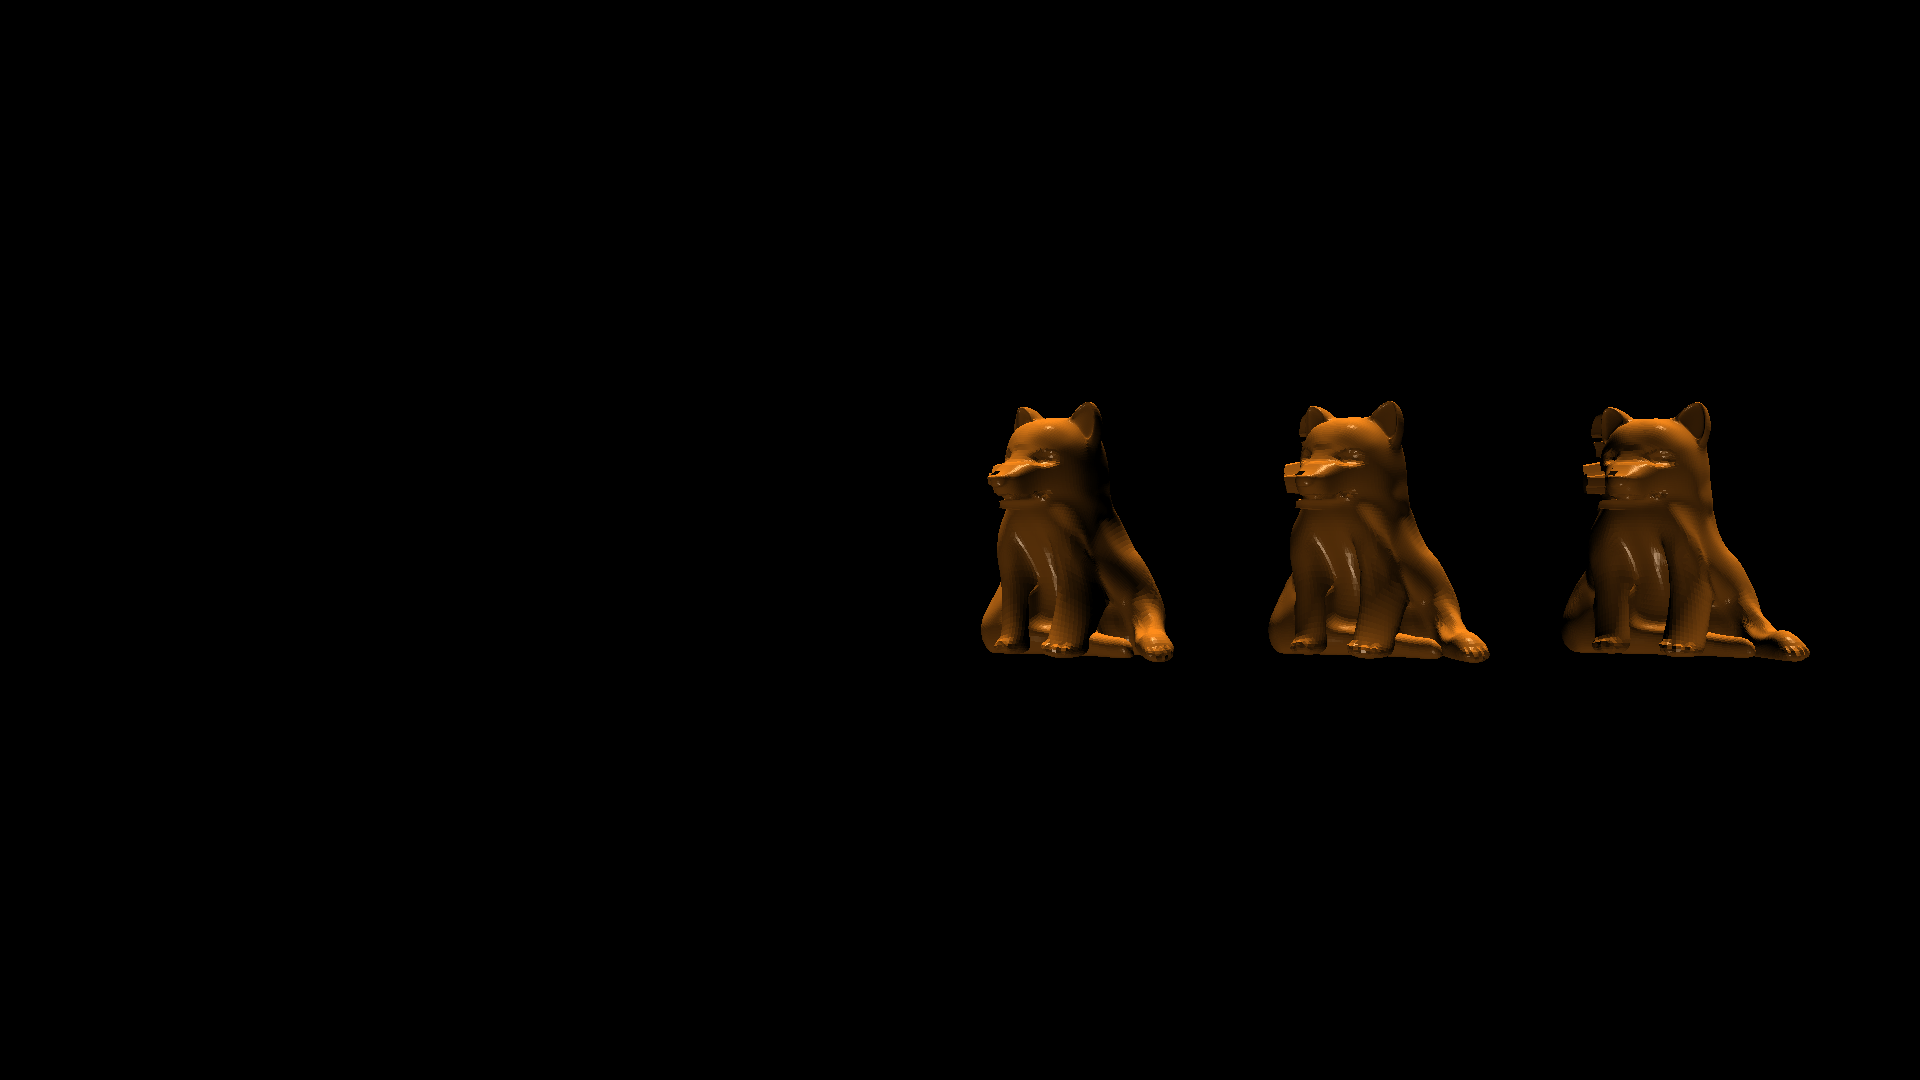
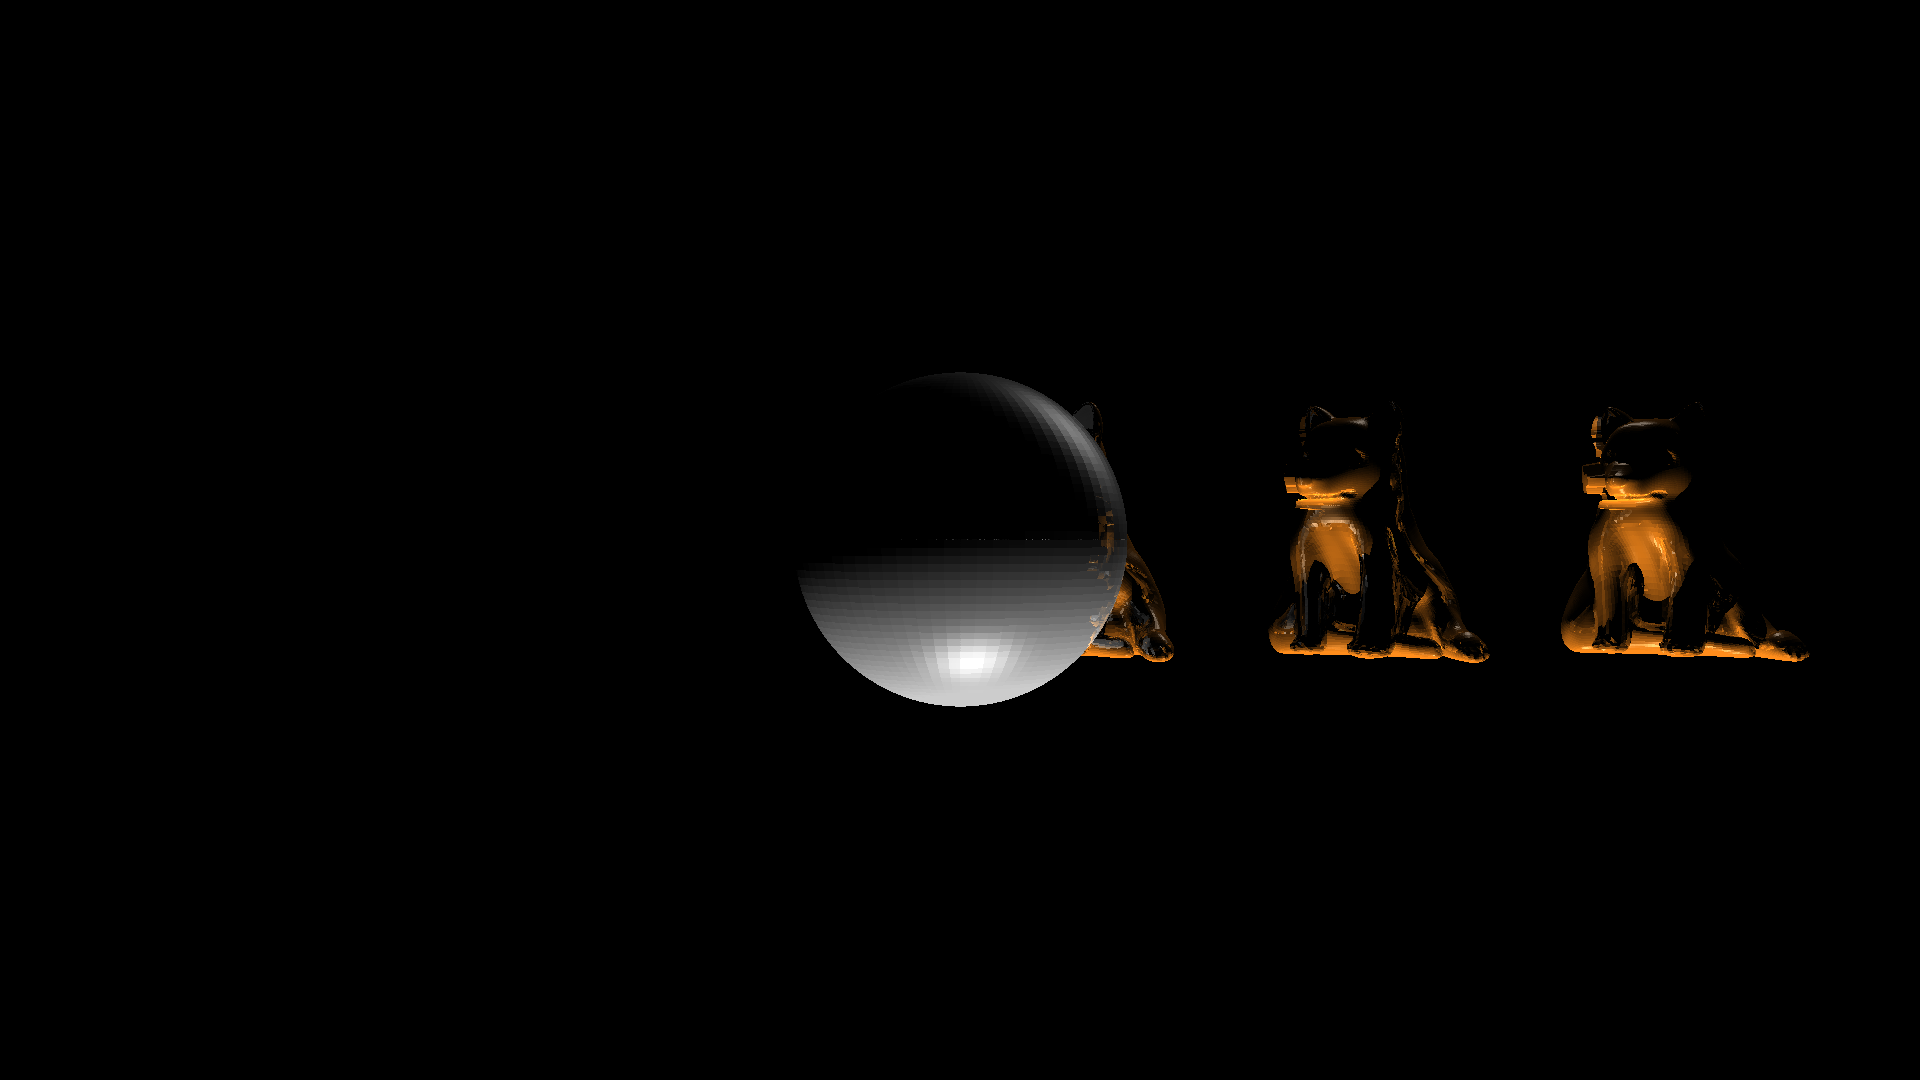
reflection

Changed region(s): [[0.4062, 0.3361, 0.625, 0.6722], [0.8125, 0.3667, 0.9375, 0.6111], [0.6562, 0.3667, 0.7812, 0.6111]]

diff --git a/PhotonMapping/Scene.cpp b/PhotonMapping/Scene.cpp
@@ -8,7 +8,6 @@
 #ifdef _DEBUG
 #include <iostream>
 #endif
-#include "PointLight.h"
 
 
 
@@ -95,7 +94,7 @@ void Scene::setCamera(std::shared_ptr<Camera> camera)
 }
 
 
-void Scene::addModel(std::string objRoute, glm::vec3 position)
+void Scene::addModel(std::string objRoute, glm::vec3 position, float reflection, float refraction)
 {
     std::shared_ptr<Model> model = std::make_shared<Model>(objRoute.c_str(), device, position);
 
@@ -139,39 +138,9 @@ std::vector<glm::vec3> Scene::renderScene()
     std::vector<Ray> camRays = camera->generateRaysCamera();
     for (Ray camRay : camRays)
     {
-        ThrowRay(camRay);
 
-        glm::vec3 HitCoordinates;
+        buffer.push_back(colorToRgb(trace(camRay, Settings::maxDepth, 1.0f)));
 
-        if (camRay.GetHit(HitCoordinates))
-        {
-            RTCRayHit* hit = camRay.GetRayHit();
-            auto mesh = getMeshWithGeometryID(hit->hit.geomID);
-            auto material = mesh->getMaterial();
-
-            glm::vec3 normal = camRay.getNormal();
-			glm::vec3 color = shade(camRay, material, 3);
-			
-			/*            
-			float lightInt = 0;
-            for (auto light : Lights)
-            {   
-                std::shared_ptr<PointLight> pointLight = std::dynamic_pointer_cast<PointLight>(light);
-                glm::vec3 lightDir = glm::normalize(HitCoordinates - pointLight->getPosition());
-                lightInt += glm::dot(normal, lightDir) * light->getIntensity();
-            }
-
-            glm::vec3 color = material->getDiffuse() * lightInt;
-
-			*/
-
-            buffer.push_back(colorToRgb(color));
-        }
-        else
-        {
-            buffer.push_back(glm::vec3{ 0,0,0 });
-            //std::cout << "No hit" << std::endl;
-        }
     }
     return buffer;
 }
@@ -182,7 +151,7 @@ float computePointLightIntensity(glm::vec3 L, const glm::vec3& normal, const flo
 	float lightInt; // Light intensity
 	float fatt = 1 / pow(L.length(), 2); // Factor distancia entre luz y punto
 	L = glm::normalize(L);
-	lightInt = glm::max(glm::dot(normal, -L), 0.f) * fatt * pointLigntInt; // pointLight->getIntensity(); // El dot product de 2 vectores normalizados da el coseno del angulo entre ellos, 50 es la intensidad
+	lightInt = glm::max(glm::dot(normal, L), 0.f) * fatt * pointLigntInt; // pointLight->getIntensity(); // El dot product de 2 vectores normalizados da el coseno del angulo entre ellos, 50 es la intensidad
 
 	lightInt = glm::clamp(lightInt, 0.0f, 1.0f);
 	return lightInt;
@@ -193,27 +162,46 @@ float computeSpecularPointLightIntensity(
 	const Ray& r,
 	const float& lightInt, const float& specularExponent, const float& specularFactor
 ){
-	glm::vec3 R = glm::reflect(-L, normal);
+	glm::vec3 R = glm::reflect(L, normal);
 	float specAmmount = glm::dot(r.Direction, R);
 	if (specAmmount < 0) specAmmount = 0;
 	return pow(specAmmount, specularExponent) * specularFactor;
 }
 
-bool doComputePointLightShading(const Ray& shadowRay, const glm::vec3& hitPos, std::shared_ptr<PointLight> pointLight, const float& transparency)
+
+glm::vec3 Scene::trace(Ray ray, int depth, float currentRefract)
 {
-	glm::vec3 rayHit;
-	return !shadowRay.GetHit(rayHit)									  // Didn't hit or
-		|| (hitPos - rayHit).length() > (pointLight->getPosition() - rayHit).length() // Light is before the hit object or
-		|| transparency > 0;														  // The hitted object has some transparency
+	glm::vec3 color = Settings::backgroundColor; 
+	if (depth <= 0)
+	{
+		return color;
+	}
+
+	ThrowRay(ray);
+
+	glm::vec3 HitCoordinates;
+
+	if (ray.GetHit(HitCoordinates))
+	{
+		RTCRayHit* hit = ray.GetRayHit();
+		auto mesh = getMeshWithGeometryID(hit->hit.geomID);
+		auto material = mesh->getMaterial();
+
+		color += shade(ray, material, Settings::maxDepth, currentRefract);
+	}
+
+	return color;
+	
 }
 
 
-glm::vec3 Scene::shade(const Ray& r, std::shared_ptr<Material> material, int depth) {
+glm::vec3 Scene::shade(const Ray& r, std::shared_ptr<Material> material, int depth, float currentRefract) {
 	// Ambient light
 	glm::vec3 color = glm::vec3(0,0,0);
 	glm::vec3 normal = r.getNormal();
 	glm::vec3 hitPos;
 	r.GetHit(hitPos);
+
 
 	for (auto light : Lights)
 	{
@@ -225,35 +213,66 @@ glm::vec3 Scene::shade(const Ray& r, std::shared_ptr<Material> material, int dep
 		{
 			glm::vec3 L = pointLight->getPosition() - hitPos;
 			
-			Ray shadowRay = Ray(hitPos, glm::normalize(L)); // Ray from hit to light source
+			Ray shadowRay = Ray(hitPos + (normal * 0.01f), glm::normalize(L)); // Ray from hit to light source
+
 			glm::vec3 shadowHitPos;
 			ThrowRay(shadowRay);
-			if (doComputePointLightShading(shadowRay, hitPos, pointLight, material->getTransparency()))
+
+			if (shadowRay.GetHit(shadowHitPos))
+			{
+				float opacity = 1;
+				RTCRayHit* hit = shadowRay.GetRayHit();
+				auto mesh = getMeshWithGeometryID(hit->hit.geomID);
+				auto hitMaterial = mesh->getMaterial();
+				opacity = hitMaterial->getOpacity();
+
+				if (opacity < 1 || (hitPos - shadowHitPos).length() > (pointLight->getPosition() - shadowHitPos).length())
+				{
+					// Diffuse Light intensity
+					float lightInt = computePointLightIntensity(L, normal, light->getIntensity()) * (1 - opacity);
+
+					// Phong Specular intensity
+					L = glm::normalize(L);
+					float specInt = computeSpecularPointLightIntensity(L, normal, r, lightInt, hitMaterial->getSpecularExponent(), hitMaterial->getSpecularFactor());
+
+					color += (material->getDiffuse() * lightInt) + specInt;
+				}
+			}
+			else
 			{
 				// Diffuse Light intensity
 				float lightInt = computePointLightIntensity(L, normal, light->getIntensity());
-				
-				// Phong Specular intensity
+
 				L = glm::normalize(L);
+				// Phong Specular intensity
 				float specInt = computeSpecularPointLightIntensity(L, normal, r, lightInt, material->getSpecularExponent(), material->getSpecularFactor());
-				
-				// Translucent obstacle incidence 
-				glm::vec3 obstacleIncidence(1, 1, 1);
-				glm::vec3 rayHit;
-				if (shadowRay.GetHit(rayHit) && (hitPos - rayHit).length() <= (pointLight->getPosition() - rayHit).length())
-				{
-					obstacleIncidence = material->getColorTransparent();
-				}
-				auto quesesto = glm::vec3(
-					((material->getDiffuse().r * lightInt) + specInt) * obstacleIncidence.r,
-					((material->getDiffuse().g * lightInt) + specInt) * obstacleIncidence.g,
-					((material->getDiffuse().b * lightInt) + specInt) * obstacleIncidence.b
-				);
-				color += quesesto;
+
+				color += (material->getDiffuse() * lightInt) + specInt;
+
 			}
+
 		}
 
 	}
+
+	if (material->getOpacity() < 1) {
+
+		glm::vec3 reflect = glm::reflect(r.Direction, normal);
+		glm::vec3 refract = glm::refract(r.Direction, normal, currentRefract / material->getRefraction());
+
+		Ray reflectRay(hitPos, reflect);
+		Ray refractRay(hitPos, refract);
+
+		color += trace(reflectRay, depth - 1, material->getRefraction());
+		color += trace(refractRay, depth - 1, material->getRefraction());
+	}
+	else if (material->getReflection())
+	{
+		glm::vec3 reflect = glm::reflect(r.Direction, normal);
+		Ray reflectRay(hitPos + (normal * 0.01f), reflect);
+		color += trace(reflectRay, depth - 1, currentRefract) * material->getReflection();
+	}
+
 	/*
 	double D_N = dot(r.d, p->normal);
 	if (profundidad > 0) {

diff --git a/PhotonMapping/Material.cpp b/PhotonMapping/Material.cpp
@@ -3,14 +3,14 @@
 #include <assimp/scene.h>
 
 
-Material::Material(glm::vec3 diffuse, glm::vec3 specular, glm::vec3 ambient, glm::vec3 colorTransparent, float refraction, float reflection, float transparency, float specularExponent, float specularFactor)
+Material::Material(glm::vec3 diffuse, glm::vec3 specular, glm::vec3 ambient, glm::vec3 colorTransparent, float refraction, float reflection, float opacity, float specularExponent, float specularFactor)
 {
 	this->diffuse = diffuse;
 	this->ambient = ambient;
 	this->reflection = glm::clamp(reflection, 0.f, 1.f);
 	this->refraction = refraction;
 	this->specular = specular;
-	this->transparency = transparency;
+	this->opacity = opacity;
 	this->specularExponent = specularExponent;
 	this->specularFactor = specularFactor;
 	this->colorTransparent = colorTransparent;
@@ -50,13 +50,15 @@ Material::Material(aiMaterial* material)
 	// Ior
 	material->Get(AI_MATKEY_REFRACTI, this->refraction);
 
-	// Refraction - Transparency ? (Alpha en blender)
-	material->Get(AI_MATKEY_OPACITY, this->transparency);
+	// Refraction - opacity ? (Alpha en blender)
+	material->Get(AI_MATKEY_OPACITY, this->opacity);
 
 	// Store in glm vec3
 	this->diffuse = assimpColorToGlm(difColor);
 	this->specular = assimpColorToGlm(speColor);
 	this->colorTransparent = assimpColorToGlm(traColor);
+	this->reflection = 0.5f;
+	this->refraction = .0f;
 }
 
 glm::vec3 Material::getDiffuse()
@@ -89,9 +91,9 @@ float Material::getReflection()
 	return this->reflection;
 }
 
-float Material::getTransparency()
+float Material::getOpacity()
 {
-	return this->transparency;
+	return this->opacity;
 }
 
 float Material::getSpecularExponent()

diff --git a/PhotonMapping/Scene.h b/PhotonMapping/Scene.h
@@ -6,6 +6,7 @@
 #include "Camera.h"
 #include <iostream>
 #include "Model.h"
+#include "PointLight.h"
 
 class Model;
 class Ray;
@@ -24,7 +25,7 @@ public:
 	void addLight(std::shared_ptr<Light> light);
 	void setCamera(std::shared_ptr<Camera> camera);
 	void saveImage(std::vector<glm::vec3> buffer);
-	void addModel(std::string objRoute, glm::vec3 position);
+	void addModel(std::string objRoute, glm::vec3 position, float reflection, float refraction);
 
 	std::shared_ptr<Mesh> getMeshWithGeometryID(unsigned id);
 
@@ -40,6 +41,8 @@ private:
 	std::vector<std::shared_ptr<Model>> Models;
 	std::vector<std::shared_ptr<Light>> Lights;
 
-	glm::vec3 shade(const Ray& r, std::shared_ptr<Material> material, int depth);
+	glm::vec3 trace(Ray ray, int depth, float currentRefract);
+	glm::vec3 shade(const Ray& r, std::shared_ptr<Material> material, int depth, float currentRefract);
+
 };
 

diff --git a/PhotonMapping/Material.h b/PhotonMapping/Material.h
@@ -15,10 +15,10 @@ private:
     glm::vec3 colorTransparent;
     float refraction;
     float reflection;
-    float transparency;
+    float opacity;
 
 public:
-    Material(glm::vec3 diffuse, glm::vec3 specular, glm::vec3 ambient, glm::vec3 colorTransparent, float refraction, float reflection, float transparency, float specularExponent, float specularFactor);
+    Material(glm::vec3 diffuse, glm::vec3 specular, glm::vec3 ambient, glm::vec3 colorTransparent, float refraction, float reflection, float opacity, float specularExponent, float specularFactor);
     Material(aiMaterial* material);
 
     glm::vec3 getDiffuse();
@@ -27,7 +27,7 @@ public:
     glm::vec3 getColorTransparent();
     float getRefraction();
     float getReflection();
-    float getTransparency();
+    float getOpacity();
     float getSpecularExponent();
     float getSpecularFactor();
 

diff --git a/PhotonMapping/Loader.cpp b/PhotonMapping/Loader.cpp
@@ -21,9 +21,12 @@ void importModels(pugi::xml_node node, std::shared_ptr<Scene> scene)
 			position.y = obj.attribute("posy").as_float();
 			position.z = obj.attribute("posz").as_float();
 
+			float reflection = obj.attribute("reflection").as_float();
+			float refraction = obj.attribute("refraction").as_float();
+
 			std::string objRoute = obj.attribute("objRoute").as_string();
 
-			scene->addModel(objRoute, position);
+			scene->addModel(objRoute, position, reflection, refraction);
 		}
 	}
 }
